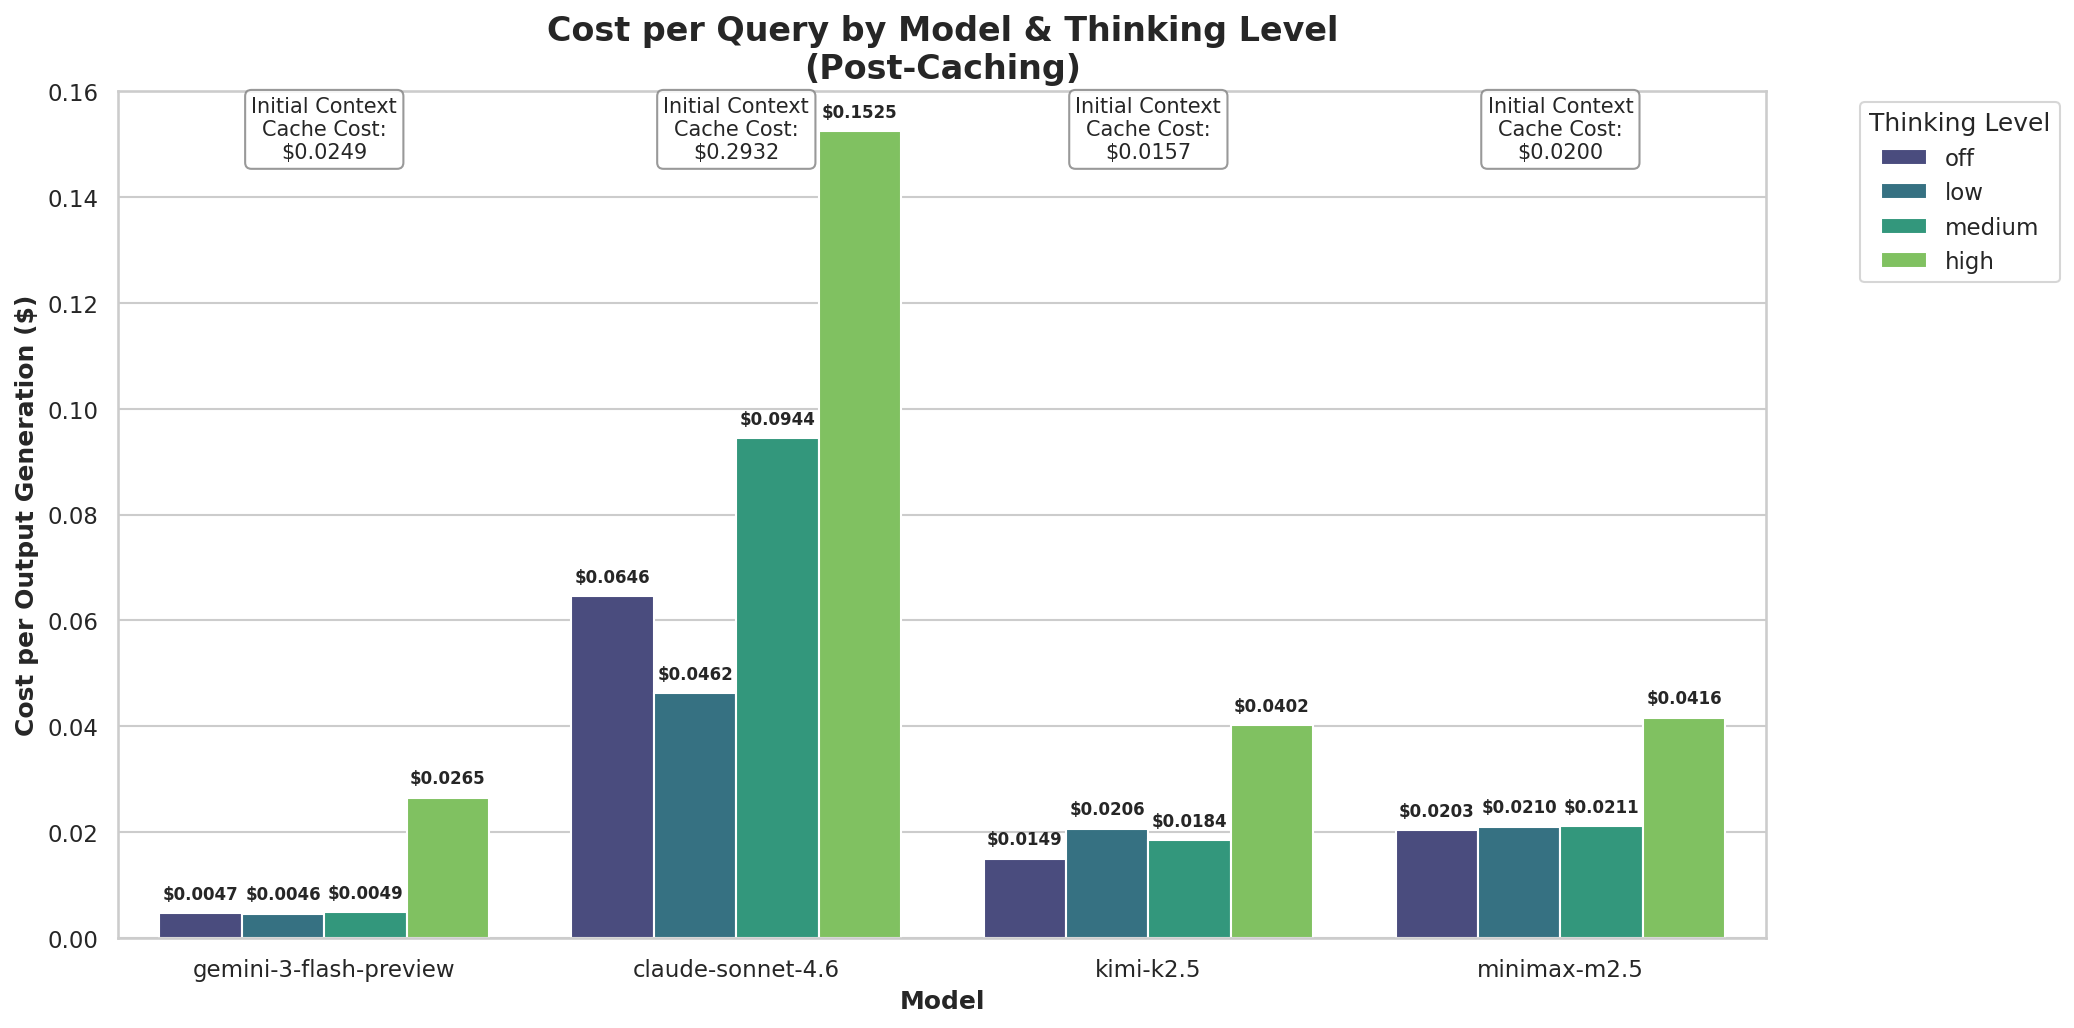
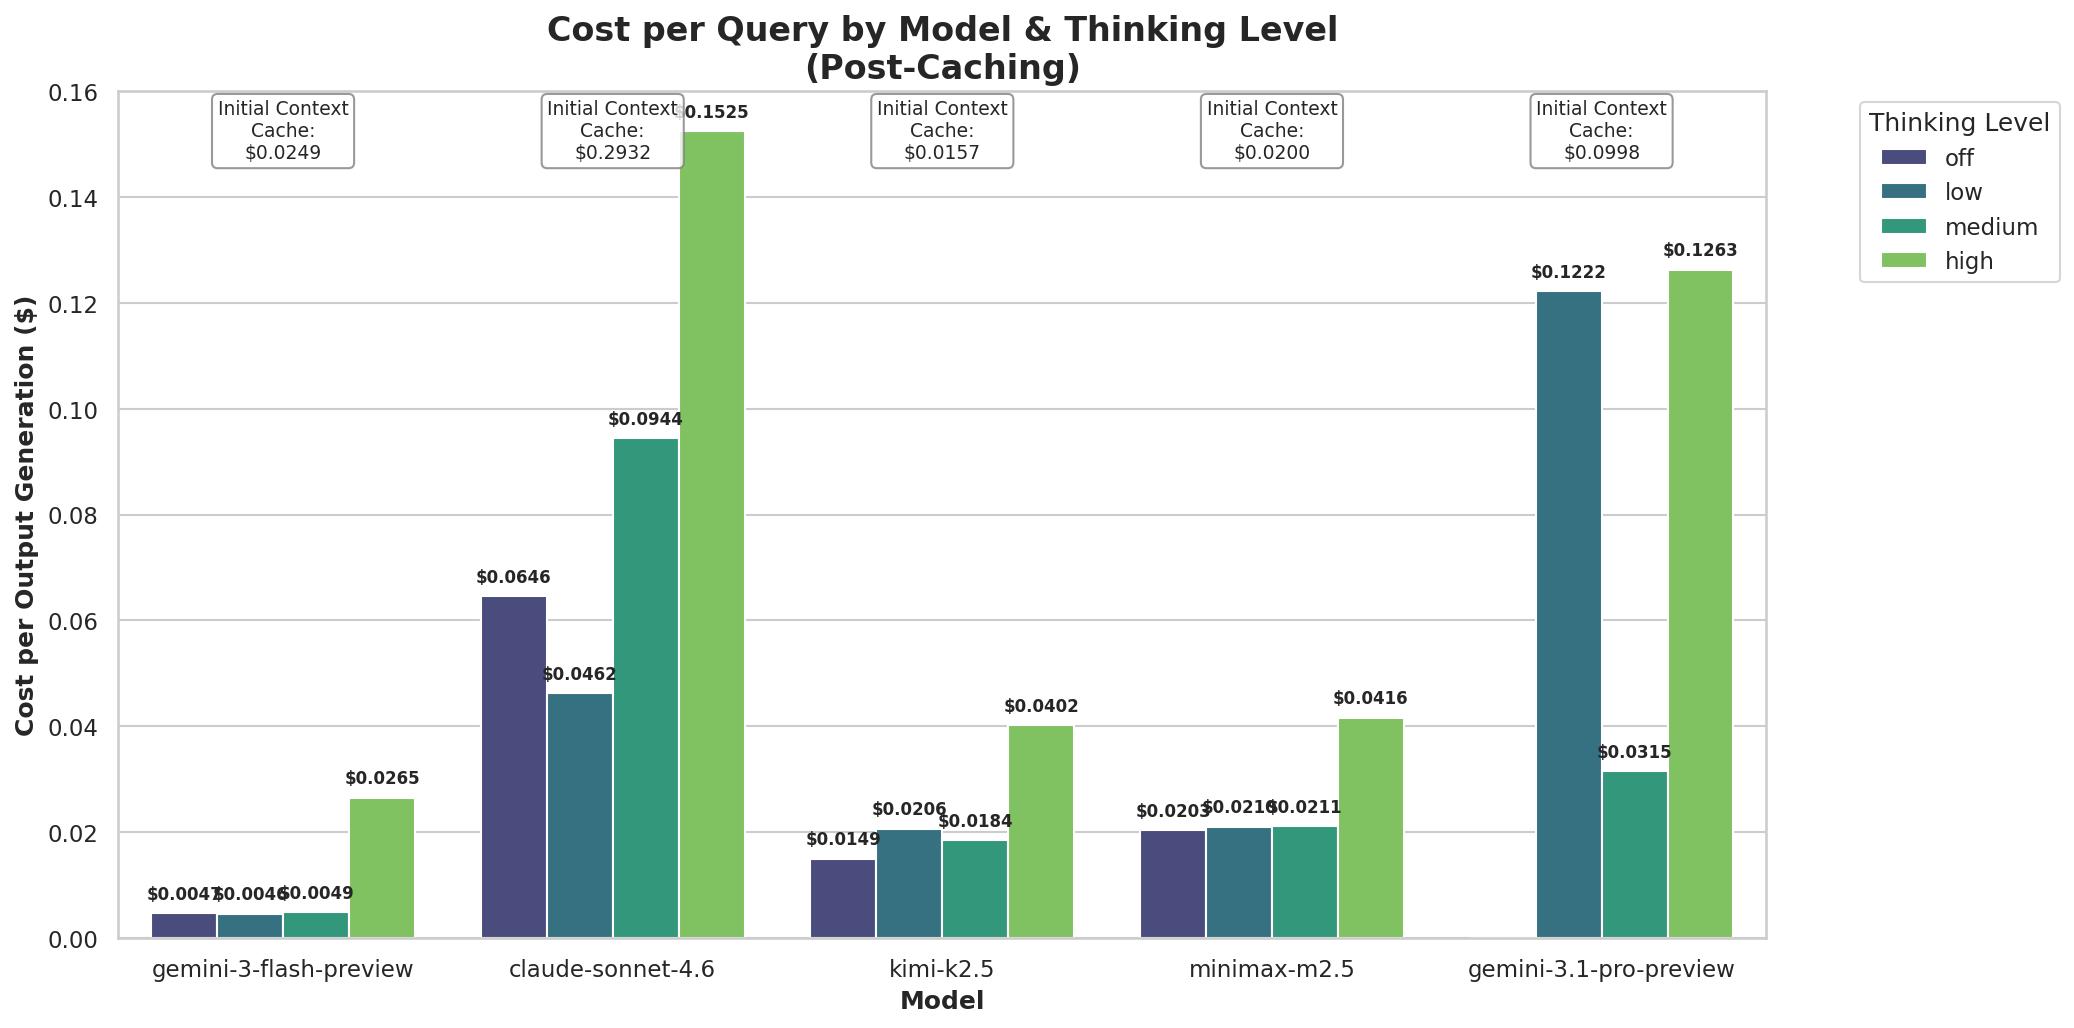
Update graphs to include Gemini Pro and add thinking recommendations

diff --git a/index.html b/index.html
@@ -23,19 +23,16 @@
         body { font-family: 'Inter', sans-serif; background-color: #f8fafc; color: #334155; }
         .graph-container { transition: transform 0.2s ease-in-out; cursor: pointer; }
         .graph-container:hover { transform: translateY(-4px); box-shadow: 0 20px 25px -5px rgb(0 0 0 / 0.1), 0 8px 10px -6px rgb(0 0 0 / 0.1); }
-        /* Lightbox CSS */
         #lightbox { display: none; position: fixed; z-index: 999; top: 0; left: 0; width: 100%; height: 100%; background: rgba(15, 23, 42, 0.95); align-items: center; justify-content: center; padding: 2rem; cursor: zoom-out; }
         #lightbox img { max-width: 95%; max-height: 95vh; object-fit: contain; border-radius: 0.5rem; box-shadow: 0 25px 50px -12px rgb(0 0 0 / 0.25); }
     </style>
 </head>
 <body class="antialiased selection:bg-claw-500 selection:text-white pb-20">
 
-    <!-- Lightbox -->
     <div id="lightbox" onclick="this.style.display='none'">
         <img id="lightbox-img" src="" alt="Expanded Graph">
     </div>
 
-    <!-- Header -->
     <header class="bg-dark text-white pt-24 pb-16 px-6 relative overflow-hidden">
[1 lines of base64/hex data omitted]
         <div class="max-w-5xl mx-auto relative z-10">
@@ -53,33 +50,29 @@
         </div>
     </header>
 
-    <!-- Main Content -->
     <main class="max-w-5xl mx-auto px-6 -mt-8 relative z-20">
         
-        <!-- Intro Card -->
         <div class="bg-white rounded-2xl shadow-sm border border-slate-200 p-8 mb-12">
             <h2 class="text-2xl font-bold text-dark mb-4">The Context Window Problem</h2>
             <p class="text-slate-600 mb-4 leading-relaxed">
                 As users build out their <strong>OpenClaw</strong> agents, the baseline context window grows rapidly. Between loading <code class="bg-slate-100 text-slate-800 px-1 rounded text-sm py-0.5">AGENTS.md</code>, <code class="bg-slate-100 text-slate-800 px-1 rounded text-sm py-0.5">SOUL.md</code>, massive JSON schemas for active Skills, and keeping a buffer of recent chat history, a standard background agent query often pushes <strong>50,000 to 75,000 tokens</strong> per request.
             </p>
             <p class="text-slate-600 leading-relaxed">
-                Firing 65k tokens into a frontier model for every minor automated step is an incredibly fast way to bankrupt your API budget. We utilized <a href="https://ppq.ai" target="_blank" class="text-claw-600 font-medium hover:underline">PPQ.ai</a>—an aggregator API allowing hot-swapping between top inference providers—to benchmark four leading models across multiple "Thinking" (reasoning) levels. Our goal: <strong>Find the most economical way to run high-quality OpenClaw sessions.</strong>
+                Firing 65k tokens into a frontier model for every minor automated step is an incredibly fast way to bankrupt your API budget. We utilized <a href="https://ppq.ai" target="_blank" class="text-claw-600 font-medium hover:underline">PPQ.ai</a>—an aggregator API allowing hot-swapping between top inference providers—to benchmark five leading models across multiple "Thinking" (reasoning) levels. Our goal: <strong>Find the most economical way to run high-quality OpenClaw sessions.</strong>
             </p>
         </div>
 
         <div class="grid grid-cols-1 md:grid-cols-2 gap-12 mb-16">
-            <!-- Methodology -->
             <div>
                 <h3 class="text-xl font-bold text-dark border-b-2 border-slate-200 pb-2 mb-4">Methodology</h3>
                 <ul class="space-y-3 text-slate-600">
                     <li class="flex items-start"><span class="text-claw-500 mr-2">✓</span> <strong>The Payload:</strong> ~64,500 token mock OpenClaw environment (inclusive of 19 full Skill manuals & 20-message chat buffer).</li>
                     <li class="flex items-start"><span class="text-claw-500 mr-2">✓</span> <strong>The Task:</strong> Write a complex Python script requiring heavy adherence to the injected workspace documentation.</li>
-                    <li class="flex items-start"><span class="text-claw-500 mr-2">✓</span> <strong>The Models:</strong> Claude Sonnet 4.6, Gemini 3.1 Pro, Kimi k2.5, Gemini 3 Flash.</li>
-                    <li class="flex items-start"><span class="text-claw-500 mr-2">✓</span> <strong>KV Caching:</strong> All initial prompts were pre-loaded to isolate generation metrics.</li>
+                    <li class="flex items-start"><span class="text-claw-500 mr-2">✓</span> <strong>The Models:</strong> Claude Sonnet 4.6, Gemini 3.1 Pro, MiniMax m2.5, Kimi k2.5, Gemini 3 Flash.</li>
+                    <li class="flex items-start"><span class="text-claw-500 mr-2">✓</span> <strong>KV Caching:</strong> All initial prompts were pre-loaded to isolate generation costs vs caching costs.</li>
                 </ul>
             </div>
             
-            <!-- Missing Data Note -->
             <div class="bg-amber-50 border border-amber-200 rounded-xl p-5">
                 <div class="flex items-center gap-2 mb-2 text-amber-800 font-bold">
                     <svg class="w-5 h-5" fill="none" stroke="currentColor" viewBox="0 0 24 24"><path stroke-linecap="round" stroke-linejoin="round" stroke-width="2" d="M12 9v2m0 4h.01m-6.938 4h13.856c1.54 0 2.502-1.667 1.732-3L13.732 4c-.77-1.333-2.694-1.333-3.464 0L3.34 16c-.77 1.333.192 3 1.732 3z"></path></svg>
@@ -91,7 +84,6 @@
             </div>
         </div>
 
-        <!-- Section 1: Cost Matrix -->
         <section class="mb-20 pt-8 border-t border-slate-200">
             <div class="flex items-center justify-between mb-6">
                 <div>
@@ -108,29 +100,14 @@
                 <h4 class="font-bold text-slate-800 mb-2">Cost Takeaways:</h4>
                 <ul class="list-disc pl-5 space-y-2 text-slate-600">
                     <li><strong>Gemini Flash is basically free:</strong> Generating tokens from a 70k context block costs functionally fractions of a penny.</li>
-                    <li><strong>Sonnet is a premium luxury:</strong> Sonnet 4.6 charges nearly <strong>$0.30</strong> just for the initial Context Caching hit, and continues to charge $0.10 - $0.15 per extended query. For heavy background automation routines in OpenClaw, Sonnet will burn through credits rapidly.</li>
+                    <li><strong>Sonnet & Pro are a premium luxury:</strong> Sonnet 4.6 charges nearly <strong>$0.30</strong> just for the initial Context Caching hit. Both Sonnet and Gemini Pro aggressively charge upwards of $0.12 - $0.15 per extended query. For heavy background automation routines, these will burn through credits rapidly.</li>
                     <li><strong>The Middle Tier:</strong> MiniMax and Kimi scale their costs linearly with how "hard" you ask them to think.</li>
                 </ul>
             </div>
         </section>
 
-        <!-- Section 2: Generation Speed -->
         <section class="mb-20 pt-8 border-t border-slate-200">
-            <h2 class="text-3xl font-bold text-dark mb-2">2. Generation Speed & Wall-Clock Latency</h2>
-            <p class="text-slate-500 text-lg mb-8">How long are you waiting for your agent to type?</p>
-
-            <figure class="mb-8 bg-white p-2 rounded-xl shadow-sm border border-slate-200 graph-container" onclick="openLightbox(this.querySelector('img').src)">
-                <img src="assets/walltime_comparison.png" alt="Wall-Clock execution time" class="w-full rounded-lg">
-            </figure>
-
-            <p class="text-slate-600 leading-relaxed mb-6">
-                Wall-time is heavily influenced by the model's <em>verbosity</em>. When Kimi-k2.5 was set to "medium", it generated over 4,000 tokens of explanation, artificially boosting its execution time to 36+ seconds. To get an apples-to-apples metric, we calculate raw <strong>Tokens per Second</strong> (below).
-            </p>
-        </section>
-
-        <!-- Section 3: The Ultimate Quality Battle -->
-        <section class="mb-20 pt-8 border-t border-slate-200">
-            <h2 class="text-3xl font-bold text-dark mb-2">3. Instruction Following & Quality</h2>
+            <h2 class="text-3xl font-bold text-dark mb-2">2. Instruction Following & Quality</h2>
             <p class="text-slate-500 text-lg mb-8">Evaluated entirely blindly by an automated LLM-as-a-Judge script using a 1-10 rubric covering context-awareness, coding accuracy, and anti-hallucination.</p>
 
             <figure class="mb-8 bg-white p-2 rounded-xl shadow-sm border border-slate-200 graph-container" onclick="openLightbox(this.querySelector('img').src)">
@@ -138,7 +115,7 @@
             </figure>
 
             <p class="text-slate-600 leading-relaxed mb-12">
-                <strong>The Verdict:</strong> Sonnet 4.6 dominates the intelligence tier, scoring a 9.33 out of 10. It perfectly synthesized the 60,000 token workspace mess into a clean Python script utilizing native file I/O. Contrast this to Flash, which hallucinated a javascript Node.JS script on its lowest setting, failing the task entirely.
+                <strong>The Verdict:</strong> Sonnet 4.6 dominates the intelligence tier, scoring a 9.33 out of 10. Gemini 3.1 Pro serves as an excellent runner-up hovering firmly in the high 8's. Contrast this to Flash, which hallucinated a javascript Node.JS script on its lowest setting, failing the task entirely.
             </p>
 
             <div class="grid grid-cols-1 md:grid-cols-2 gap-8 my-8">
@@ -151,29 +128,41 @@
             </div>
         </section>
 
-        <!-- Conclusion -->
         <section class="mb-20 pt-8 border-t border-slate-200">
             <div class="bg-dark text-white rounded-2xl p-8 md:p-10 shadow-lg">
                 <h2 class="text-2xl font-bold mb-6 text-teal-400">Final OpenClaw Configurations</h2>
-                <div class="space-y-6">
-                    <div>
-                        <h3 class="text-xl font-semibold mb-2">🏆 The Daily Driver: <span class="text-white font-mono bg-white/10 px-2 py-1 rounded text-sm">google/gemini-3.1-pro-preview</span></h3>
-                        <p class="text-slate-300">
-                            At a reliable ~8.5/10 quality score, Gemini Pro is currently the undeniable sweet spot for average users. Set its thinking to <strong>medium</strong>. It handles massive OpenClaw schemas beautifully, executes much faster than Sonnet, and avoids the hallucination traps that Flash and MiniMax fell into.
+                <div class="space-y-8">
+                    
+                    <div class="bg-white/5 border border-white/10 rounded-xl p-5 relative">
+                        <div class="absolute top-5 right-5 flex gap-2">
+                            <span class="bg-blue-500/20 text-blue-300 border border-blue-500/30 px-3 py-1 rounded text-xs font-bold uppercase tracking-wider">Think: Medium</span>
+                        </div>
+                        <h3 class="text-xl font-semibold mb-3 flex items-center gap-2">🏆 The Daily Driver: <span class="bg-black/30 px-2 py-1 rounded font-mono text-sm tracking-tight text-slate-200">google/gemini-3.1-pro-preview</span></h3>
+                        <p class="text-slate-300 leading-relaxed">
+                            At a reliable ~8.5/10 quality score, Gemini Pro is currently the undeniable sweet spot for average users interacting with their agents daily. Setting its thinking parameter to <strong>medium</strong> prevents the zero-token failure state while keeping costs and latency reigned in. It handles massive OpenClaw schemas beautifully and avoids the hallucination traps that Flash and MiniMax fell into.
                         </p>
                     </div>
-                    <div>
-                        <h3 class="text-xl font-semibold mb-2">💸 The Architect: <span class="text-white font-mono bg-white/10 px-2 py-1 rounded text-sm">claude-sonnet-4.6</span></h3>
-                        <p class="text-slate-300">
-                            If you are doing highly destructive operations (managing your real server files via OpenClaw) or complex sub-agent software engineering, use Sonnet. The cost is high (~$0.15/msg), but it is the only model that guarantees pristine situational awareness inside a heavy workspace.
+
+                    <div class="bg-white/5 border border-white/10 rounded-xl p-5 relative">
+                        <div class="absolute top-5 right-5 flex gap-2">
+                            <span class="bg-amber-500/20 text-amber-300 border border-amber-500/30 px-3 py-1 rounded text-xs font-bold uppercase tracking-wider">Think: Low</span>
+                        </div>
+                        <h3 class="text-xl font-semibold mb-3 flex items-center gap-2">🛠 The Architect: <span class="bg-black/30 px-2 py-1 rounded font-mono text-sm tracking-tight text-slate-200">claude-sonnet-4.6</span></h3>
+                        <p class="text-slate-300 leading-relaxed">
+                            If you are doing highly destructive operations (managing your real server files via OpenClaw) or complex sub-agent software engineering, use Sonnet. The cost is high (~$0.15/msg), but it is the only model that guarantees pristine situational awareness inside a heavy workspace. We recommend leaving thinking on <strong>low</strong> or <strong>medium</strong>; turning it to 'high' caused it to hit hard token limits and become extremely expensive without necessarily boosting the quality output.
                         </p>
                     </div>
-                    <div>
-                        <h3 class="text-xl font-semibold mb-2">🏎 Background Cron Jobs: <span class="text-white font-mono bg-white/10 px-2 py-1 rounded text-sm">gemini-3-flash-preview</span></h3>
-                        <p class="text-slate-300">
-                            Keep Flash locked to background monitoring tools via <code class="bg-black/30 px-1 rounded">cron</code>. It struggles with dense code-writing logic, but it's perfect (and practically free) for reading 65k tokens of logs to check for a simple "yes/no" trigger state.
+                    
+                    <div class="bg-white/5 border border-white/10 rounded-xl p-5 relative">
+                        <div class="absolute top-5 right-5 flex gap-2">
+                            <span class="bg-emerald-500/20 text-emerald-300 border border-emerald-500/30 px-3 py-1 rounded text-xs font-bold uppercase tracking-wider">Think: Off</span>
+                        </div>
+                        <h3 class="text-xl font-semibold mb-3 flex items-center gap-2">🏎 Background Cron Jobs: <span class="bg-black/30 px-2 py-1 rounded font-mono text-sm tracking-tight text-slate-200">gemini-3-flash-preview</span></h3>
+                        <p class="text-slate-300 leading-relaxed">
+                            Keep Flash locked to background monitoring tools via <code class="bg-black/30 px-1 rounded text-sm">cron</code>. It struggles with dense code-writing logic, but it's perfect (and practically free) for tasks that wake up, scan 65k tokens of unformatted logs, and check for a simple "yes/no" trigger state. By turning thinking to <strong>off</strong>, you maximize raw throughput speed (130+ tokens/sec) and minimize cost fractions.
                         </p>
                     </div>
+
                 </div>
             </div>
         </section>
@@ -188,17 +177,16 @@
         function openLightbox(src) {
             document.getElementById('lightbox-img').src = src;
             document.getElementById('lightbox').style.display = 'flex';
-            document.body.style.overflow = 'hidden'; // prevent background scrolling
+            document.body.style.overflow = 'hidden'; 
         }
         
         document.getElementById('lightbox').addEventListener('click', function(e) {
             if (e.target !== document.getElementById('lightbox-img')) {
                 this.style.display = 'none';
-                document.body.style.overflow = 'auto'; // restore scrolling
+                document.body.style.overflow = 'auto'; 
             }
         });
 
-        // Let Esc key close lightbox
         document.addEventListener('keydown', function(event) {
             if(event.key === "Escape") {
                 document.getElementById('lightbox').style.display = 'none';
